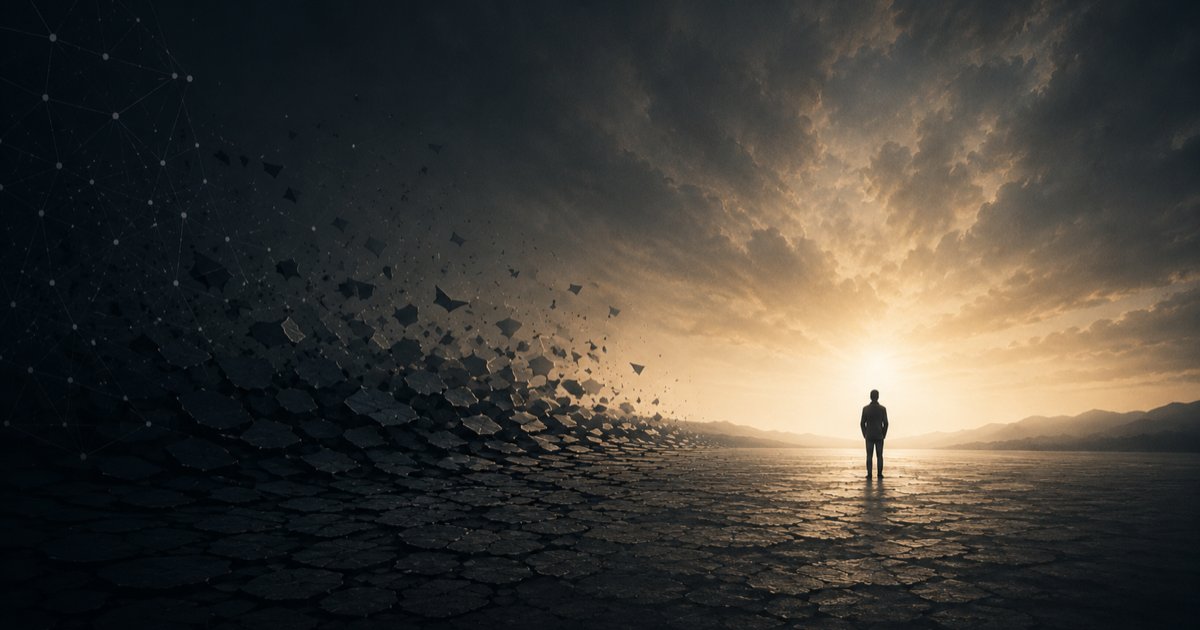
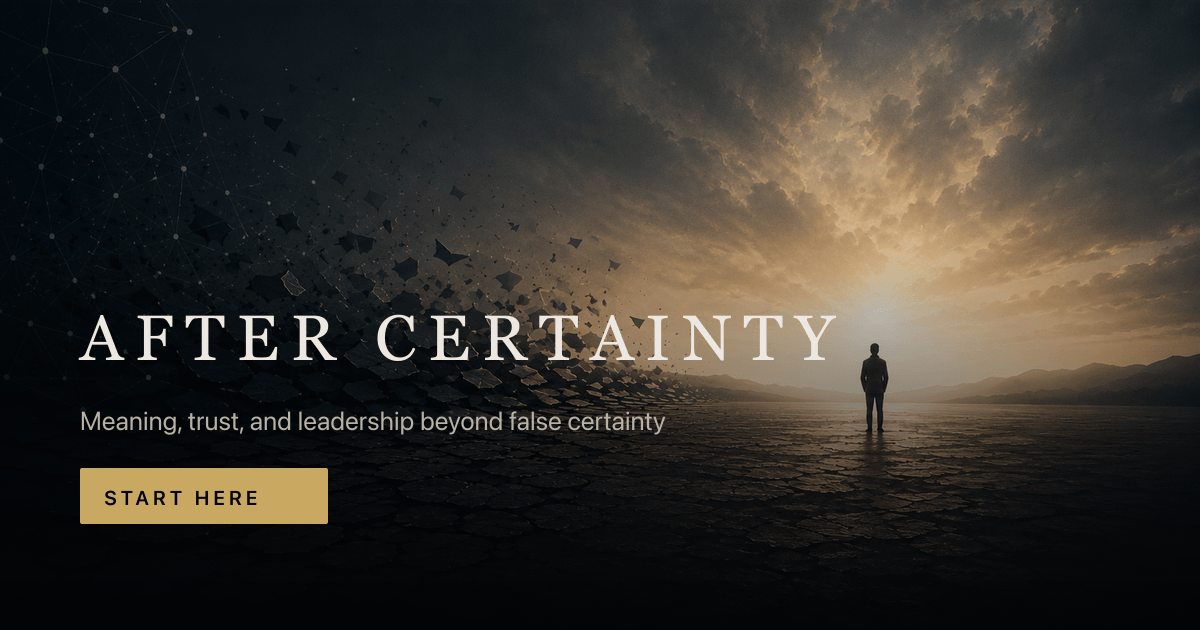
Improve OG image and title for WhatsApp and preview tools.
Add headline and CTA overlay on hero art, compress og.png under 600 KB, and use a ~59-character share title for Open Graph and Twitter.

diff --git a/lib/metadata.test.ts b/lib/metadata.test.ts
@@ -1,6 +1,7 @@
 import { describe, expect, it } from "vitest";
 
-import { createPageMetadata } from "@/lib/metadata";
+import { createPageMetadata, defaultMetadata } from "@/lib/metadata";
+import { OG_SHARE_TITLE } from "@/lib/site-config";
 
 describe("createPageMetadata", () => {
   it("sets title and description and forwards them to openGraph and twitter", () => {
@@ -14,5 +15,14 @@ describe("createPageMetadata", () => {
     expect(m.openGraph?.description).toBe("Orientation into the project.");
     expect(m.twitter?.title).toBe("About");
     expect(m.twitter?.description).toBe("Orientation into the project.");
+  });
+});
+
+describe("defaultMetadata", () => {
+  it("uses a share title in the 50–60 character range for Open Graph", () => {
+    expect(OG_SHARE_TITLE.length).toBeGreaterThanOrEqual(50);
+    expect(OG_SHARE_TITLE.length).toBeLessThanOrEqual(60);
+    expect(defaultMetadata.openGraph?.title).toBe(OG_SHARE_TITLE);
+    expect(defaultMetadata.twitter?.title).toBe(OG_SHARE_TITLE);
   });
 });

diff --git a/lib/metadata.ts b/lib/metadata.ts
@@ -1,7 +1,7 @@
 import type { Metadata } from "next";
 import { resolvePodcastRssUrl, siteConfig } from "@/lib/site-config";
 
-/** Static 1200×630 crop of `public/images/hero/hero-backdrop.png` — see `scripts/generate-og.sh`. */
+/** Static 1200×630 OG art from hero + overlay — regenerate with `npm run generate:og`. */
 const ogImagePath = "/og.png";
 
 export const defaultMetadata: Metadata = {
@@ -28,7 +28,7 @@ export const defaultMetadata: Metadata = {
     type: "website",
     locale: "en_US",
     siteName: siteConfig.name,
-    title: siteConfig.name,
+    title: siteConfig.ogShareTitle,
     description: siteConfig.description,
     url: siteConfig.url,
     images: [
@@ -36,13 +36,13 @@ export const defaultMetadata: Metadata = {
         url: ogImagePath,
         width: 1200,
         height: 630,
-        alt: siteConfig.name,
+        alt: siteConfig.ogShareTitle,
       },
     ],
   },
   twitter: {
     card: "summary_large_image",
-    title: siteConfig.name,
+    title: siteConfig.ogShareTitle,
     description: siteConfig.description,
     images: [ogImagePath],
   },

diff --git a/lib/site-config.ts b/lib/site-config.ts
@@ -93,8 +93,13 @@ export function resolvePodcastPlatformLinks(): PodcastPlatformLinks {
   };
 }
 
+/** Open Graph / Twitter card title (~50–60 chars for link preview tools). */
+export const OG_SHARE_TITLE =
+  "After Certainty — An Intellectual Commons for Human Systems";
+
 export const siteConfig = {
   name: "After Certainty",
+  ogShareTitle: OG_SHARE_TITLE,
   description:
     "An intellectual commons exploring meaning, trust, leadership, authority, communication, and human systems—beyond false certainty.",
   url: resolveDeploymentUrl(),